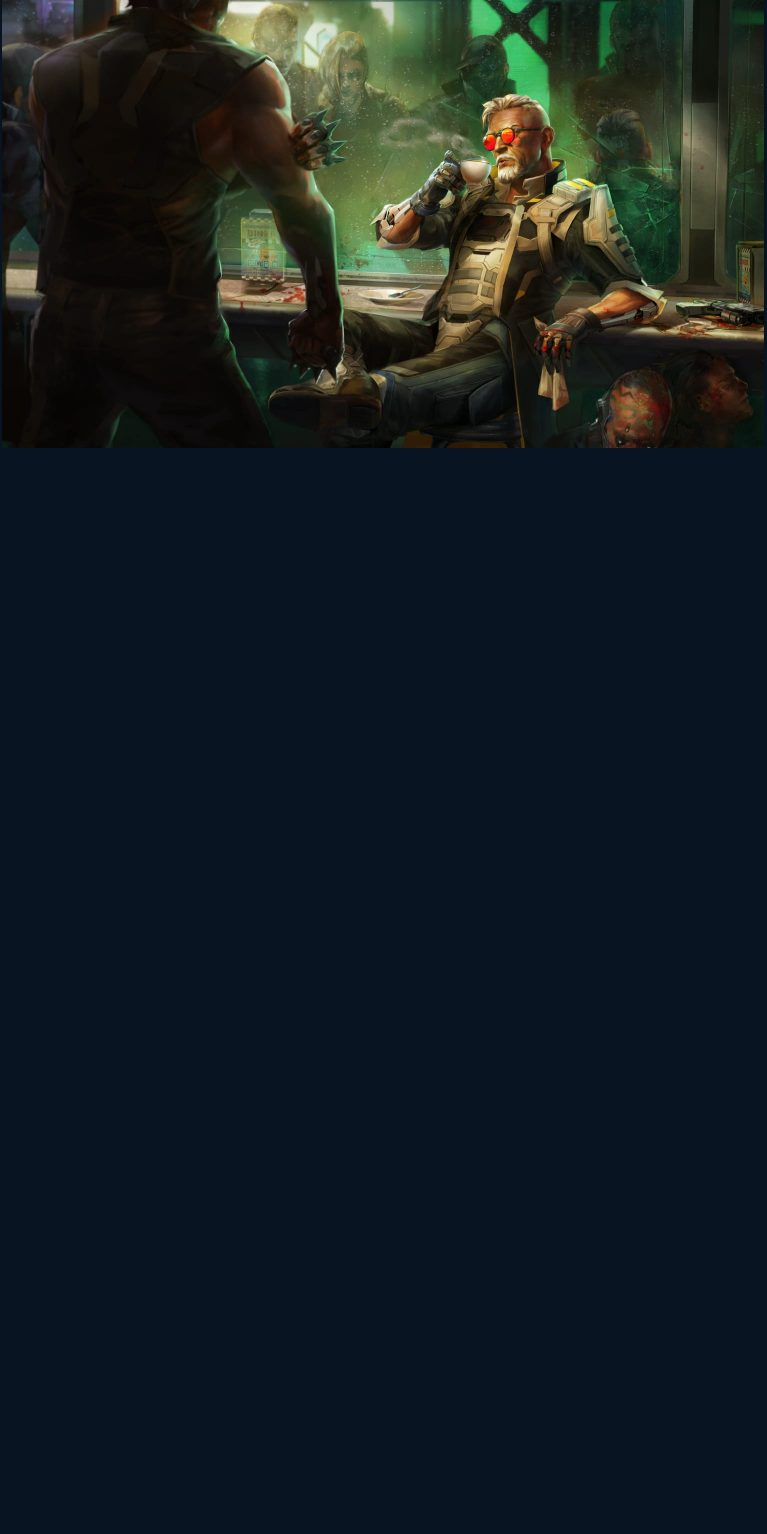
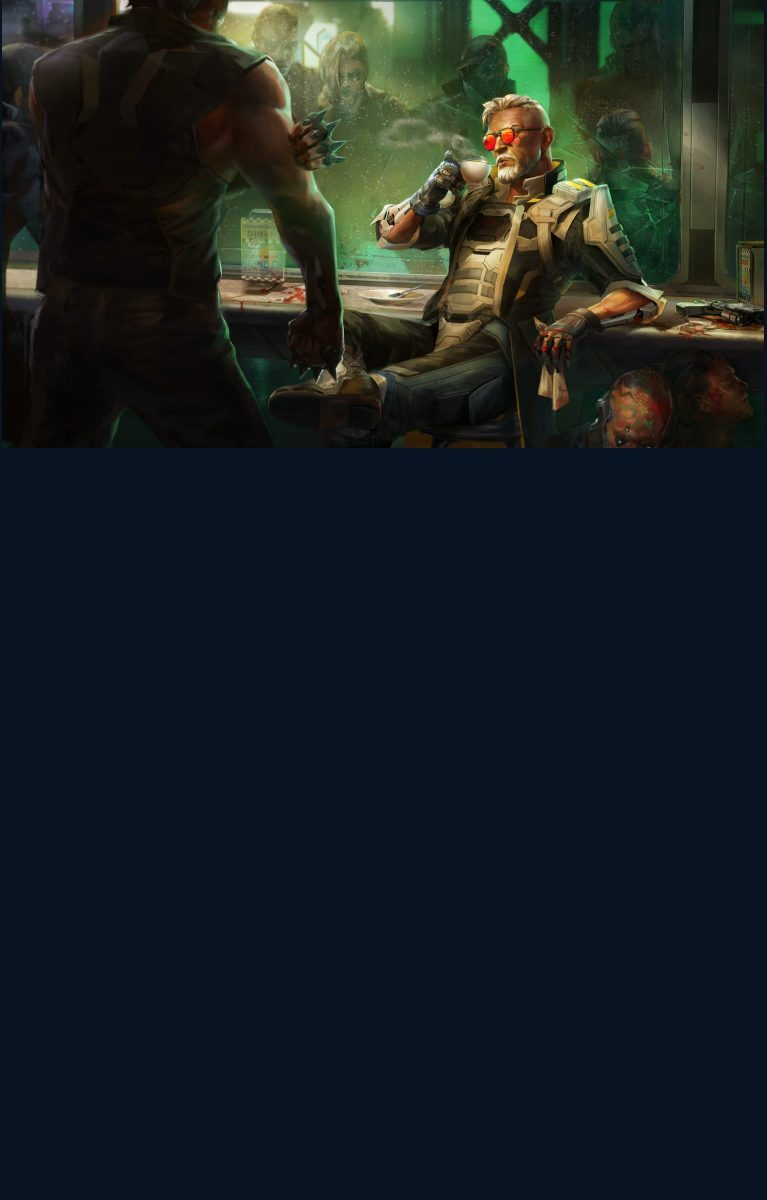
antes de cambiar las imagenes de home a grid

Changed region(s): [[0.0, 0.0, 1.0, 0.4008], [0.0, 0.0, 0.1799, 0.1233], [0.9896, 0.0925, 1.0, 0.1233]]

diff --git a/index.html b/index.html
@@ -54,24 +54,30 @@
           <div class="contenedor">
             <div class="contenedor-home-dos">
               <div class="contenedor-texto-dos">
-                <div class="spacer"></div>
+                <!-- <div class="spacer"></div> -->
                 <p  class="parrafo-uno">Demuestra tu calibre en Apex Legends: Arsenal con la nueva leyenda (Ballistic), un Fin del mundo actualizado, un campo de tiro evolucionado y mucho más.</p>
                 <div class="botones-jugar">
                   <a class="boton-jugar" href="https://www.ea.com/es-es/games/apex-legends/play-now-for-free">Más información</a>
                 </div>     
               </div>
-              <img class="home-img-uno" src="img/home-page-3-mobile.jpg" alt="Ballistic">  
+              <picture>
+                <source srcset="img/home-page-3-tablet.jpg" media="(min-width: 600px)">  
+                <img class="home-img-uno" src="img/home-page-3-mobile.jpg" alt="Ballistic">
+              </picture>
             </div>
           </div>
-        <!-- <div class="competir-contenedor">
-            <section class="contenedor-home-dos">
-                    <div class="contenedor-texto-dos">
-                        <h1 class="titulo-dos">APUNTA Y DISPARA</h1>
-                        <p class="parrafo-dos">Apex Legends incorpora potencia de fuego de vanguardia con la nueva leyenda (Ballistic), un campo de tiro evolucionado, un sistema de progresión de maestría de armas y actualizaciones para el campo de batalla más caótico de todas las Tierras Salvajes.</p>
-                    </div>
-                    <img class="home-img-uno" src="img/home-page-3-mobile.jpg" alt="Ballistic-imagen">
-            </section>
-        </div> -->
+          <div class="contenedor">
+            <div class="contenedor-home-dos">
+              <div class="contenedor-texto-dos">
+                <!-- <div class="spacer"></div> -->
+                <p  class="parrafo-tres">Demuestra tu calibre en Apex Legends: Arsenal con la nueva leyenda (Ballistic), un Fin del mundo actualizado, un campo de tiro evolucionado y mucho más.</p>   
+              </div>
+              <picture>
+                <source srcset="img/home-page-2-tablet.jpg" media="(min-width: 600px)">  
+                <img class="home-img-uno" src="img/home-page-2-mobile.jpg" alt="Variado">
+              </picture>
+            </div>
+          </div>
         <footer>
             <div class="container-fluid">
               <div class="row p-2 text-white">

diff --git a/scss/_home.scss b/scss/_home.scss
@@ -25,9 +25,11 @@
     // min-height: 100%;
     position: relative;
     overflow: hidden;
+    width: 100%;
 }
 .contenedor-home-dos{
-    height: 50vh;
+    height: 100%;
+    width: 100%;
 }
 .home-vid-uno{
     top: 50%;
@@ -41,16 +43,12 @@
     object-fit: cover;
 }
 .home-img-uno{
-    // inset: 0;
-    top: 50;
-    margin: auto;
     width: 100%;
     height: 100%;
-    position: absolute;
     z-index: -4;
     overflow: hidden;
     object-fit: cover;
-    object-position: 0% 0%;
+    position: relative;
 }
 
 
@@ -59,21 +57,18 @@
     flex-direction: column;
     height: 100%;
     width: 100%;
-    justify-content: center;
-    align-items: center;
+    align-self: flex-end;
     padding: 30px;
     z-index: 2; 
 }
 .contenedor-texto-dos{
     display: flex;
     flex-direction: column;
-    height: 80%;
-    width: 100%;
-    justify-content: start;
+    justify-content: flex-end;
     align-items: center;
+    height: 70%;
     position: absolute;
     padding: 30px;
-    top: 20%;
     z-index: 3;
 }
 
@@ -88,8 +83,6 @@
     flex-direction: column;
     align-items: center;
     justify-content: center;
-    width: 100%;
-    height: 100%
 }
 .boton-jugar, .boton-trailer{
     @include home-boton;
@@ -110,23 +103,25 @@
 }
 .titulo-dos, .parrafo-dos{
     position: absolute;
-    top: 50%;
-    left: 50%;
+    // top: 50%;
+    // left: 50%;
 }
 
-// @media screen and (min-width: 700px){
-//     .contenedor-texto, .contenedor-texto-dos{
-//         // max-width: 40rem;
-//         position: absolute;
-//         background-color: transparent;
-//     }
-//     .contenedor-home-uno, .contenedor-home-dos{
-//         background-color: transparent;
-//     }
-//     .parrafo-dos, .titulo-dos{
-//         padding: 0 6rem 0 6rem;
-//         margin: 1rem;
-//         color: $color-text;
-//         text-align: center;
-//     }
-// }
+@media screen and (min-width: 700px){
+    .contenedor-texto, .contenedor-texto-dos{
+        // max-width: 40rem;
+        // position: absolute;
+        justify-content: space-between;
+        align-items: center;
+        background-color: transparent;
+    }
+    .contenedor-home-uno, .contenedor-home-dos{
+        background-color: transparent;
+    }
+    .parrafo-dos, .titulo-dos{
+        padding: 0 6rem 0 6rem;
+        margin: 1rem;
+        color: $color-text;
+        text-align: center;
+    }
+}

diff --git a/css/style.css b/css/style.css
@@ -172,10 +172,12 @@ footer {
   justify-content: center;
   align-items: center;
   position: relative;
-  overflow: hidden; }
+  overflow: hidden;
+  width: 100%; }
 
 .contenedor-home-dos {
-  height: 50vh; }
+  height: 100%;
+  width: 100%; }
 
 .home-vid-uno {
   top: 50%;
@@ -189,36 +191,30 @@ footer {
   object-fit: cover; }
 
 .home-img-uno {
-  top: 50;
-  margin: auto;
   width: 100%;
   height: 100%;
-  position: absolute;
   z-index: -4;
   overflow: hidden;
   object-fit: cover;
-  object-position: 0% 0%; }
+  position: relative; }
 
 .contenedor-texto {
   display: flex;
   flex-direction: column;
   height: 100%;
   width: 100%;
-  justify-content: center;
-  align-items: center;
+  align-self: flex-end;
   padding: 30px;
   z-index: 2; }
 
 .contenedor-texto-dos {
   display: flex;
   flex-direction: column;
-  height: 80%;
-  width: 100%;
-  justify-content: start;
+  justify-content: flex-end;
   align-items: center;
+  height: 70%;
   position: absolute;
   padding: 30px;
-  top: 20%;
   z-index: 3; }
 
 .home-apex-logo {
@@ -231,9 +227,7 @@ footer {
   display: flex;
   flex-direction: column;
   align-items: center;
-  justify-content: center;
-  width: 100%;
-  height: 100%; }
+  justify-content: center; }
 
 .boton-jugar, .boton-trailer {
   background-color: #DA292A;
@@ -261,9 +255,20 @@ footer {
   text-align: center; }
 
 .titulo-dos, .parrafo-dos {
-  position: absolute;
-  top: 50%;
-  left: 50%; }
+  position: absolute; }
+
+@media screen and (min-width: 700px) {
+  .contenedor-texto, .contenedor-texto-dos {
+    justify-content: space-between;
+    align-items: center;
+    background-color: transparent; }
+  .contenedor-home-uno, .contenedor-home-dos {
+    background-color: transparent; }
+  .parrafo-dos, .titulo-dos {
+    padding: 0 6rem 0 6rem;
+    margin: 1rem;
+    color: white;
+    text-align: center; } }
 
 /* mapas*/
 /* mapas*/
